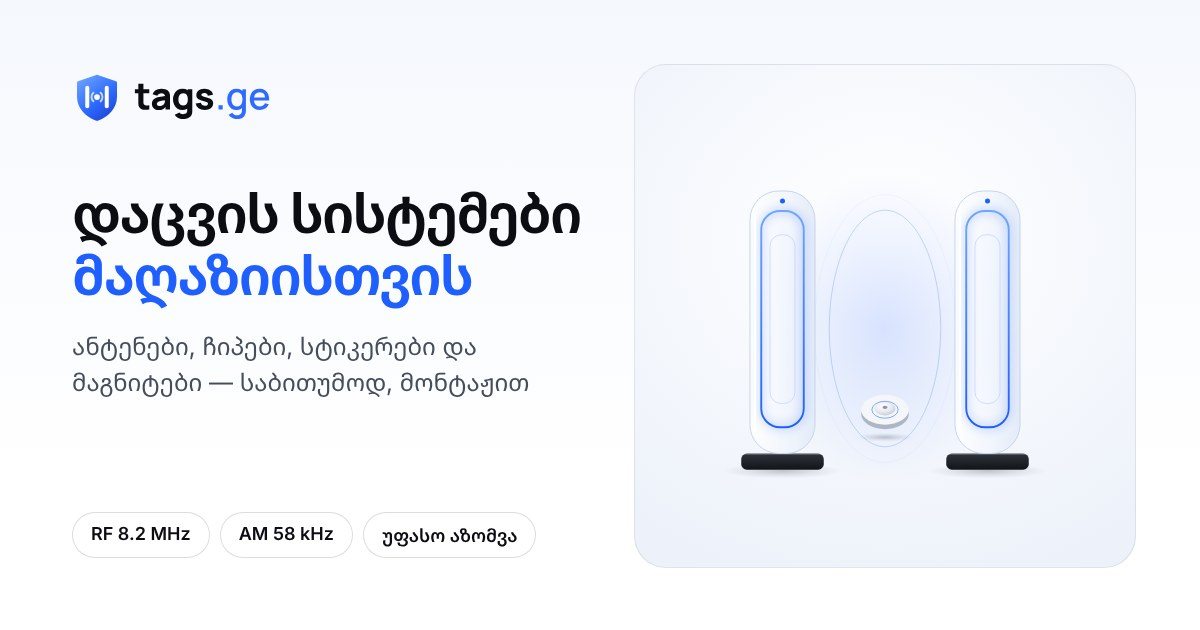
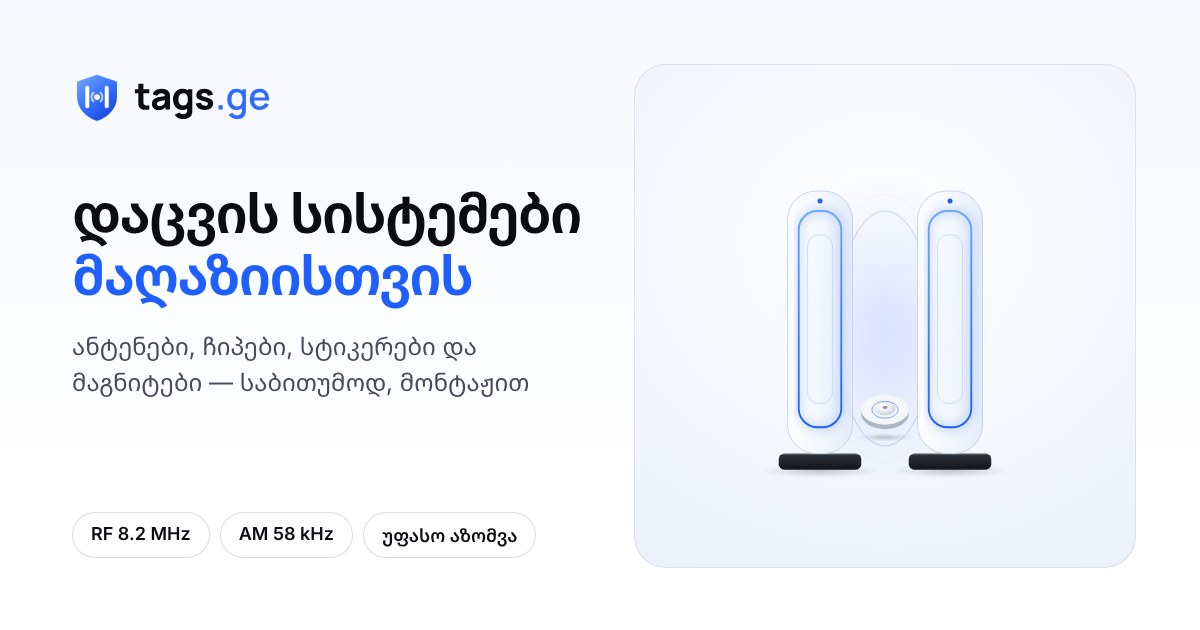
tags.ge: fuller hero on a slightly darker background
- Hero background is a light grey-blue (#E9EEF6) with a faint dot texture;
  the header matches it until the page scrolls
- Added a small label above the headline and three figures under the
  buttons (20+ models, 24 h reply, free measuring)
- Three floating product cards on the illustration (hard tags, labels,
  magnets) that open their catalogue category; two on mid-size screens,
  hidden on phones
- Benefit points are now white cards (installation and service, wholesale
  price, RF/AM compatibility, restocking); icon above text on phones
- Antennas in the illustration moved closer to leave room for the cards
- Social preview re-rendered

Checked: float card navigation, 21 end-to-end checks, no horizontal
scroll 320-1920 px, html-validate clean, axe-core no violations.

Claude-Session: https://claude.ai/code/session_01BTpAvXkUq9DKvF3ta8y6eN

Changed region(s): [[0.6167, 0.3016, 0.8633, 0.754]]

diff --git a/tagsge/index.html b/tagsge/index.html
@@ -60,6 +60,7 @@
   --font:"Inter","Noto Sans Georgian",system-ui,-apple-system,"Segoe UI",Roboto,sans-serif;
   --ease:cubic-bezier(.2,.7,.2,1);
   --header-h:64px; --gutter:clamp(16px,4vw,40px); --max:1160px;
+  --hero-bg:#E9EEF6;
 }
 
 /* ===== base ===== */
@@ -110,8 +111,8 @@ h1,h2,h3,h4,p,ul,ol,figure{margin:0}
 }
 
 /* ===== header ===== */
-.site-header{position:sticky;top:0;z-index:50;height:var(--header-h);background:rgba(255,255,255,.86);-webkit-backdrop-filter:saturate(180%) blur(16px);backdrop-filter:saturate(180%) blur(16px);border-bottom:1px solid transparent;transition:border-color .25s}
-.site-header.is-scrolled,.menu-open .site-header{border-bottom-color:var(--line)}
+.site-header{position:sticky;top:0;z-index:50;height:var(--header-h);background:var(--hero-bg);-webkit-backdrop-filter:saturate(180%) blur(16px);backdrop-filter:saturate(180%) blur(16px);border-bottom:1px solid transparent;transition:border-color .25s,background-color .25s}
+.site-header.is-scrolled,.menu-open .site-header{background:rgba(255,255,255,.88);border-bottom-color:var(--line)}
 .header-inner{height:100%;display:flex;align-items:center;gap:24px}
 .brand{display:inline-flex;flex:none;border-radius:8px}
 .logo{width:118px;height:auto;color:var(--text)}
@@ -139,20 +140,46 @@ h1,h2,h3,h4,p,ul,ol,figure{margin:0}
 html.menu-open{overflow:hidden}
 
 /* ===== hero ===== */
-.hero{padding:clamp(40px,7vw,88px) 0 clamp(48px,6vw,72px);background:linear-gradient(180deg,#F5F8FD 0%,#FFFFFF 75%)}
+.hero{position:relative;isolation:isolate;padding:clamp(36px,6vw,80px) 0 clamp(48px,6vw,72px);background:linear-gradient(180deg,var(--hero-bg) 0%,#F1F4F9 100%)}
+.hero::before{content:"";position:absolute;inset:0;z-index:-1;background-image:radial-gradient(rgba(31,94,255,.14) 1px,transparent 1.5px);background-size:22px 22px;-webkit-mask-image:radial-gradient(55% 65% at 78% 42%,#000 0%,transparent 75%);mask-image:radial-gradient(55% 65% at 78% 42%,#000 0%,transparent 75%)}
+.hero-pill{display:inline-flex;align-items:center;gap:8px;margin-bottom:22px;padding:6px 14px 6px 10px;border-radius:999px;background:#fff;border:1px solid var(--line);font-size:13.5px;font-weight:600;color:var(--text-2);box-shadow:0 1px 2px rgba(16,24,40,.04)}
+.hero-pill-dot{width:8px;height:8px;border-radius:50%;background:var(--accent);box-shadow:0 0 0 4px var(--accent-soft)}
+.hero-stats{display:flex;flex-wrap:wrap;gap:16px 0;margin-top:36px;list-style:none;padding:0}
+.hero-stats li{padding:0 24px;border-left:1px solid var(--line-strong)}
+.hero-stats li:first-child{padding-left:0;border-left:0}
+.hero-stats b{display:block;font-size:22px;font-weight:700;letter-spacing:-.02em;line-height:1.2}
+.hero-stats span{display:block;margin-top:2px;font-size:13.5px;color:var(--muted)}
+.hero-visual{position:relative}
+.float{position:absolute;z-index:2;display:flex;align-items:center;gap:10px;padding:7px 14px 7px 7px;border-radius:16px;background:rgba(255,255,255,.94);-webkit-backdrop-filter:blur(8px);backdrop-filter:blur(8px);border:1px solid var(--line);box-shadow:0 18px 36px -16px rgba(16,24,40,.28);line-height:1.3;transition:transform .3s var(--ease),box-shadow .3s var(--ease)}
+.float:hover{transform:translateY(-3px);box-shadow:0 22px 40px -16px rgba(16,24,40,.34)}
+.float img{flex:none;width:46px;height:38px;object-fit:contain;border-radius:10px;background:var(--bg-soft)}
+.float b{display:block;font-size:13.5px;font-weight:600;white-space:nowrap}
+.float small{display:block;font-size:12px;color:var(--muted)}
+.f1{top:11%;left:-32px}
+.f2{top:44%;right:-32px}
+.f3{bottom:12%;left:-32px}
+@media (prefers-reduced-motion:no-preference){.float{animation:bob 6s ease-in-out infinite}.f2{animation-delay:-2s}.f3{animation-delay:-4s}.float:hover{animation-play-state:paused}}
+@keyframes bob{0%,100%{translate:0 0}50%{translate:0 -5px}}
 .hero-grid{display:grid;grid-template-columns:minmax(0,1fr) minmax(0,1.05fr);gap:clamp(32px,5vw,64px);align-items:center}
 .hero-sub{margin-top:20px;max-width:500px}
 .hero-cta{display:flex;flex-wrap:wrap;gap:12px;margin-top:32px}
-.hero-art{position:relative;aspect-ratio:5/4;border-radius:28px;overflow:hidden;border:1px solid var(--line);background:radial-gradient(80% 70% at 50% 35%,#FFFFFF 0%,#EDF2FA 100%)}
+.hero-art{position:relative;aspect-ratio:5/4;border-radius:28px;overflow:hidden;border:1px solid rgba(11,13,18,.06);background:radial-gradient(80% 70% at 50% 35%,#FFFFFF 0%,#F2F6FC 100%);box-shadow:0 40px 80px -40px rgba(16,24,40,.30)}
 .hero-art img{position:absolute;inset:0;width:100%;height:100%;object-fit:contain}
-.features{display:grid;grid-template-columns:repeat(4,minmax(0,1fr));gap:24px;margin-top:clamp(48px,6vw,72px);padding:32px 0 0;border-top:1px solid var(--line);list-style:none}
-.feature{display:flex;gap:14px;align-items:flex-start}
+.features{display:grid;grid-template-columns:repeat(4,minmax(0,1fr));gap:12px;margin-top:clamp(48px,6vw,72px);padding:0;list-style:none}
+.feature{display:flex;gap:14px;align-items:flex-start;padding:18px;border-radius:18px;background:#fff;border:1px solid rgba(11,13,18,.06);box-shadow:0 1px 2px rgba(16,24,40,.04)}
 .feature-icon{display:grid;place-items:center;flex:none;width:40px;height:40px;border-radius:12px;background:var(--accent-soft);color:var(--accent)}
 .feature-icon svg{width:20px;height:20px}
-.feature p{margin-top:4px;font-size:14px;line-height:1.5;color:var(--muted)}
+.feature p{margin-top:4px;font-size:14px;line-height:1.5;color:var(--muted);overflow-wrap:anywhere}
 .feature .feature-title{margin-top:0;font-size:15.5px;font-weight:600;line-height:1.4;color:var(--text)}
-@media (max-width:900px){.hero-grid{grid-template-columns:minmax(0,1fr)}.features{grid-template-columns:repeat(2,minmax(0,1fr))}}
-@media (max-width:480px){.features{grid-template-columns:minmax(0,1fr);gap:18px}.hero-cta .btn{flex:1}}
+@media (min-width:901px) and (max-width:1279px){.f1,.f3{left:-56px}.f2{display:none}.float{padding:6px 12px 6px 6px}.float img{width:38px;height:32px}.float b{font-size:13px}}
+@media (max-width:900px){.hero-grid{grid-template-columns:minmax(0,1fr)}.features{grid-template-columns:repeat(2,minmax(0,1fr))}.f1,.f3{left:-12px}.f2{right:-12px}}
+@media (max-width:600px){
+  .float{display:none}
+  .feature{flex-direction:column;gap:10px}
+  .hero-stats li{padding:0 16px}
+}
+@media (max-width:480px){.hero-cta .btn{flex:1}.feature{padding:14px}}
+@media (max-width:359px){.features{grid-template-columns:minmax(0,1fr)}}
 
 /* ===== sections ===== */
 .section{padding-block:clamp(64px,9vw,112px)}
@@ -312,22 +339,33 @@ html.menu-open{overflow:hidden}
   <div class="container">
     <div class="hero-grid">
       <div data-reveal>
+        <p class="hero-pill"><span class="hero-pill-dot" aria-hidden="true"></span>საბითუმო მიწოდება · მონტაჟი</p>
         <h1 class="h1" id="hero-title">დაცვის სისტემები <em>მაღაზიისთვის</em></h1>
         <p class="lead hero-sub">ანტენები, ჩიპები, სტიკერები და მაგნიტები — საბითუმოდ, მონტაჟით მთელ საქართველოში.</p>
         <div class="hero-cta">
           <a class="btn btn-primary" href="#contact">ფასის მოთხოვნა <svg class="arrow" viewBox="0 0 24 24" fill="none" stroke="currentColor" stroke-width="2" stroke-linecap="round" stroke-linejoin="round" aria-hidden="true"><path d="M5 12h14M13 6l6 6-6 6"/></svg></a>
           <a class="btn btn-secondary" href="#catalog">კატალოგი</a>
         </div>
+        <ul class="hero-stats">
+          <li><b>20+</b><span>მოდელი</span></li>
+          <li><b>24 სთ</b><span>პასუხი</span></li>
+          <li><b>უფასო</b><span>აზომვა</span></li>
+        </ul>
       </div>
-      <figure class="hero-art" data-reveal>
-        <img src="img/hero-light.svg" width="800" height="640" alt="დამცავი ანტენები მაღაზიის შესასვლელთან" fetchpriority="high" decoding="async">
-      </figure>
+      <div class="hero-visual" data-reveal>
+        <figure class="hero-art">
+          <img src="img/hero-light.svg" width="800" height="640" alt="დამცავი ანტენები მაღაზიის შესასვლელთან" fetchpriority="high" decoding="async">
+        </figure>
+        <a class="float f1" href="#hard-tags"><img src="img/hard-tag-golf.svg" alt="" width="400" height="300" decoding="async"><span><b>პლასტმასის ჩიპები</b><small>8 მოდელი</small></span></a>
+        <a class="float f2" href="#soft-labels"><img src="img/label-rf.svg" alt="" width="400" height="300" decoding="async"><span><b>დამცავი სტიკერები</b><small>4 მოდელი</small></span></a>
+        <a class="float f3" href="#detachers"><img src="img/detacher-golf.svg" alt="" width="400" height="300" decoding="async"><span><b>მაგნიტები</b><small>4 მოდელი</small></span></a>
+      </div>
     </div>
     <ul class="features">
-      <li class="feature"><span class="feature-icon"><svg viewBox="0 0 24 24" fill="none" stroke="currentColor" stroke-width="1.8" stroke-linecap="round" stroke-linejoin="round" aria-hidden="true"><path d="M3.5 16.5 16.5 3.5l4 4-13 13z"/><path d="M7.5 12.5l2 2M10.5 9.5l2 2M13.5 6.5l2 2"/></svg></span><div><p class="feature-title">უფასო აზომვა</p><p>შესასვლელს ადგილზე ვზომავთ.</p></div></li>
       <li class="feature"><span class="feature-icon"><svg viewBox="0 0 24 24" fill="none" stroke="currentColor" stroke-width="1.8" stroke-linecap="round" stroke-linejoin="round" aria-hidden="true"><path d="M14.6 6.4a4.2 4.2 0 0 0-5.5 5.5L3.8 17.2a1.9 1.9 0 0 0 2.7 2.7l5.3-5.3a4.2 4.2 0 0 0 5.5-5.5l-2.6 2.6-2.5-.6-.6-2.5z"/></svg></span><div><p class="feature-title">მონტაჟი და სერვისი</p><p>მთელ საქართველოში.</p></div></li>
       <li class="feature"><span class="feature-icon"><svg viewBox="0 0 24 24" fill="none" stroke="currentColor" stroke-width="1.8" stroke-linecap="round" stroke-linejoin="round" aria-hidden="true"><path d="M3.5 12.2V4.5a1 1 0 0 1 1-1h7.7a1 1 0 0 1 .7.3l7.6 7.6a1 1 0 0 1 0 1.4l-7.7 7.7a1 1 0 0 1-1.4 0l-7.6-7.6a1 1 0 0 1-.3-.7z"/><circle cx="8" cy="8" r="1.5"/></svg></span><div><p class="feature-title">საბითუმო ფასი</p><p>პირდაპირი იმპორტი.</p></div></li>
       <li class="feature"><span class="feature-icon"><svg viewBox="0 0 24 24" fill="none" stroke="currentColor" stroke-width="1.8" stroke-linecap="round" stroke-linejoin="round" aria-hidden="true"><path d="M12 3l7 3v5.5c0 4.2-2.9 7.9-7 9.5-4.1-1.6-7-5.3-7-9.5V6z"/><path d="M9 12l2 2 4-4"/></svg></span><div><p class="feature-title">თავსებადობა</p><p>სტანდარტული RF და AM.</p></div></li>
+      <li class="feature"><span class="feature-icon"><svg viewBox="0 0 24 24" fill="none" stroke="currentColor" stroke-width="1.8" stroke-linecap="round" stroke-linejoin="round" aria-hidden="true"><path d="M2.5 6.5h11v10h-11z"/><path d="M13.5 9.5h4l3.5 3.5v3.5h-7.5"/><circle cx="6.5" cy="17.5" r="1.8"/><circle cx="17" cy="17.5" r="1.8"/></svg></span><div><p class="feature-title">მარაგის შევსება</p><p>ჩიპები და სტიკერები დროულად.</p></div></li>
     </ul>
   </div>
 </section>
@@ -849,6 +887,12 @@ html.menu-open{overflow:hidden}
     tabs.forEach(function (t) { t.setAttribute('aria-pressed', String(t.getAttribute('data-filter') === id)); });
   }
   tabs.forEach(function (t) { t.addEventListener('click', function () { showCat(t.getAttribute('data-filter')); }); });
+  document.addEventListener('click', function (e) {
+    var a = e.target.closest('a[href^="#"]'); if (!a) return;
+    var id = a.getAttribute('href').slice(1); if (ids.indexOf(id) < 0) return;
+    e.preventDefault(); showCat(id);
+    document.getElementById(id).scrollIntoView({ behavior: behavior, block: 'start' });
+  });
   var startCat = ids.indexOf(location.hash.slice(1)) > -1 ? location.hash.slice(1) : null;
   if (startCat) {
     showCat(startCat);

diff --git a/tagsge/README.md b/tagsge/README.md
@@ -19,7 +19,7 @@ tagsge/
 
 Light, minimal layout with one accent colour (blue `#1F5EFF`):
 
-1. **Hero:** headline, one line of text, "ფასის მოთხოვნა" and "კატალოგი" buttons, the antenna illustration, and four short points (free measuring, installation and service, wholesale price, RF/AM compatibility).
+1. **Hero** (light grey-blue background with a faint dot texture): a small label, the headline, one line of text, "ფასის მოთხოვნა" and "კატალოგი" buttons and three figures (models in the catalogue, 24 h reply, free measuring). Next to it, the antenna illustration with three small product cards that open their catalogue category (two cards on mid-size screens, none on phones). Below, four short points: installation and service, wholesale price, RF/AM compatibility, restocking.
 2. **კატალოგი:** category tabs and 20 products.
 3. **RF თუ AM?:** two cards comparing the systems.
 4. **ხშირი კითხვები:** five questions.
